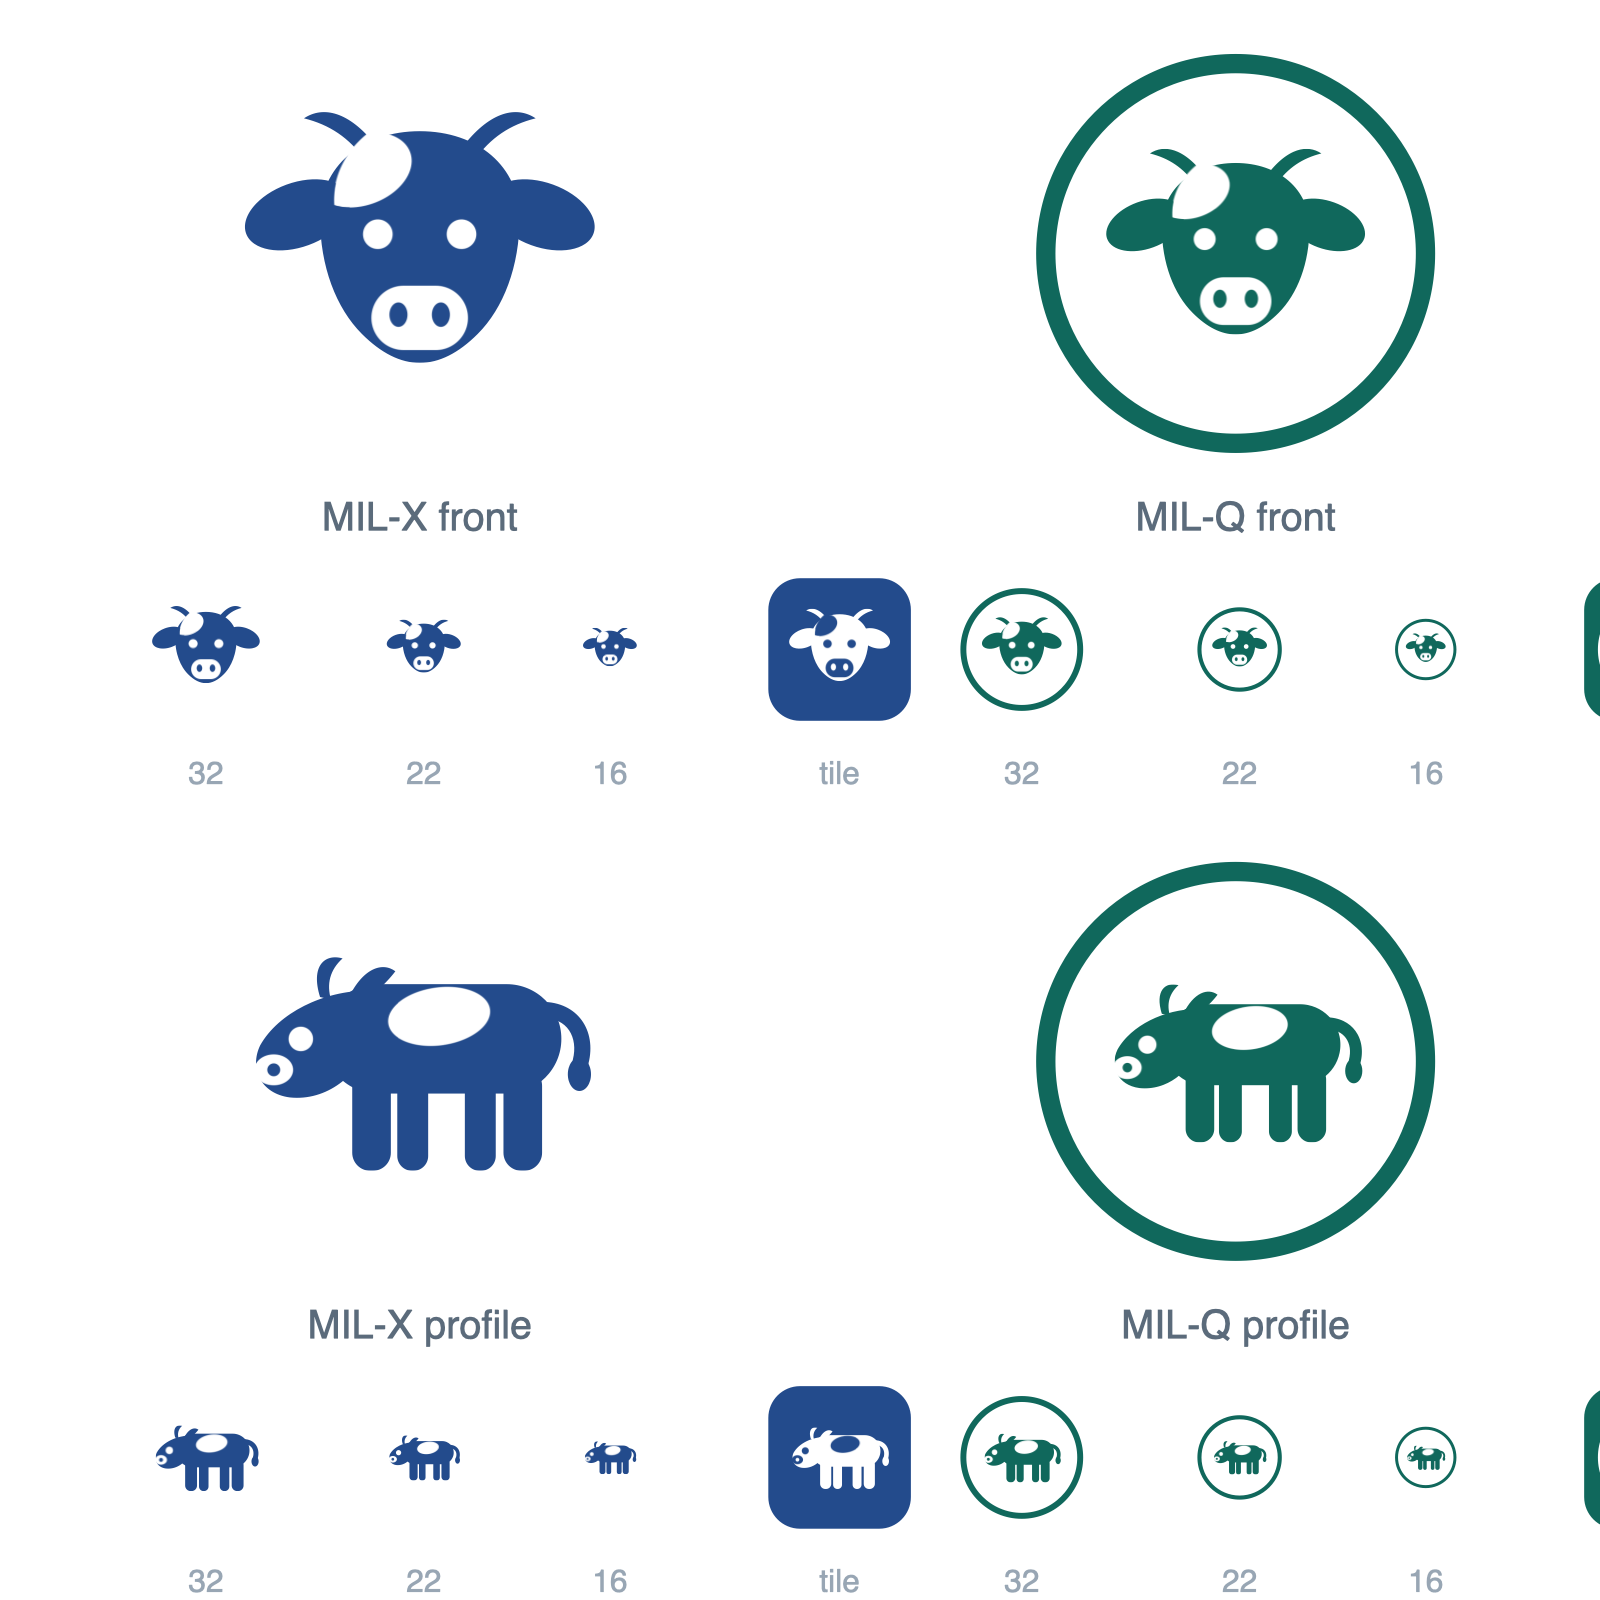
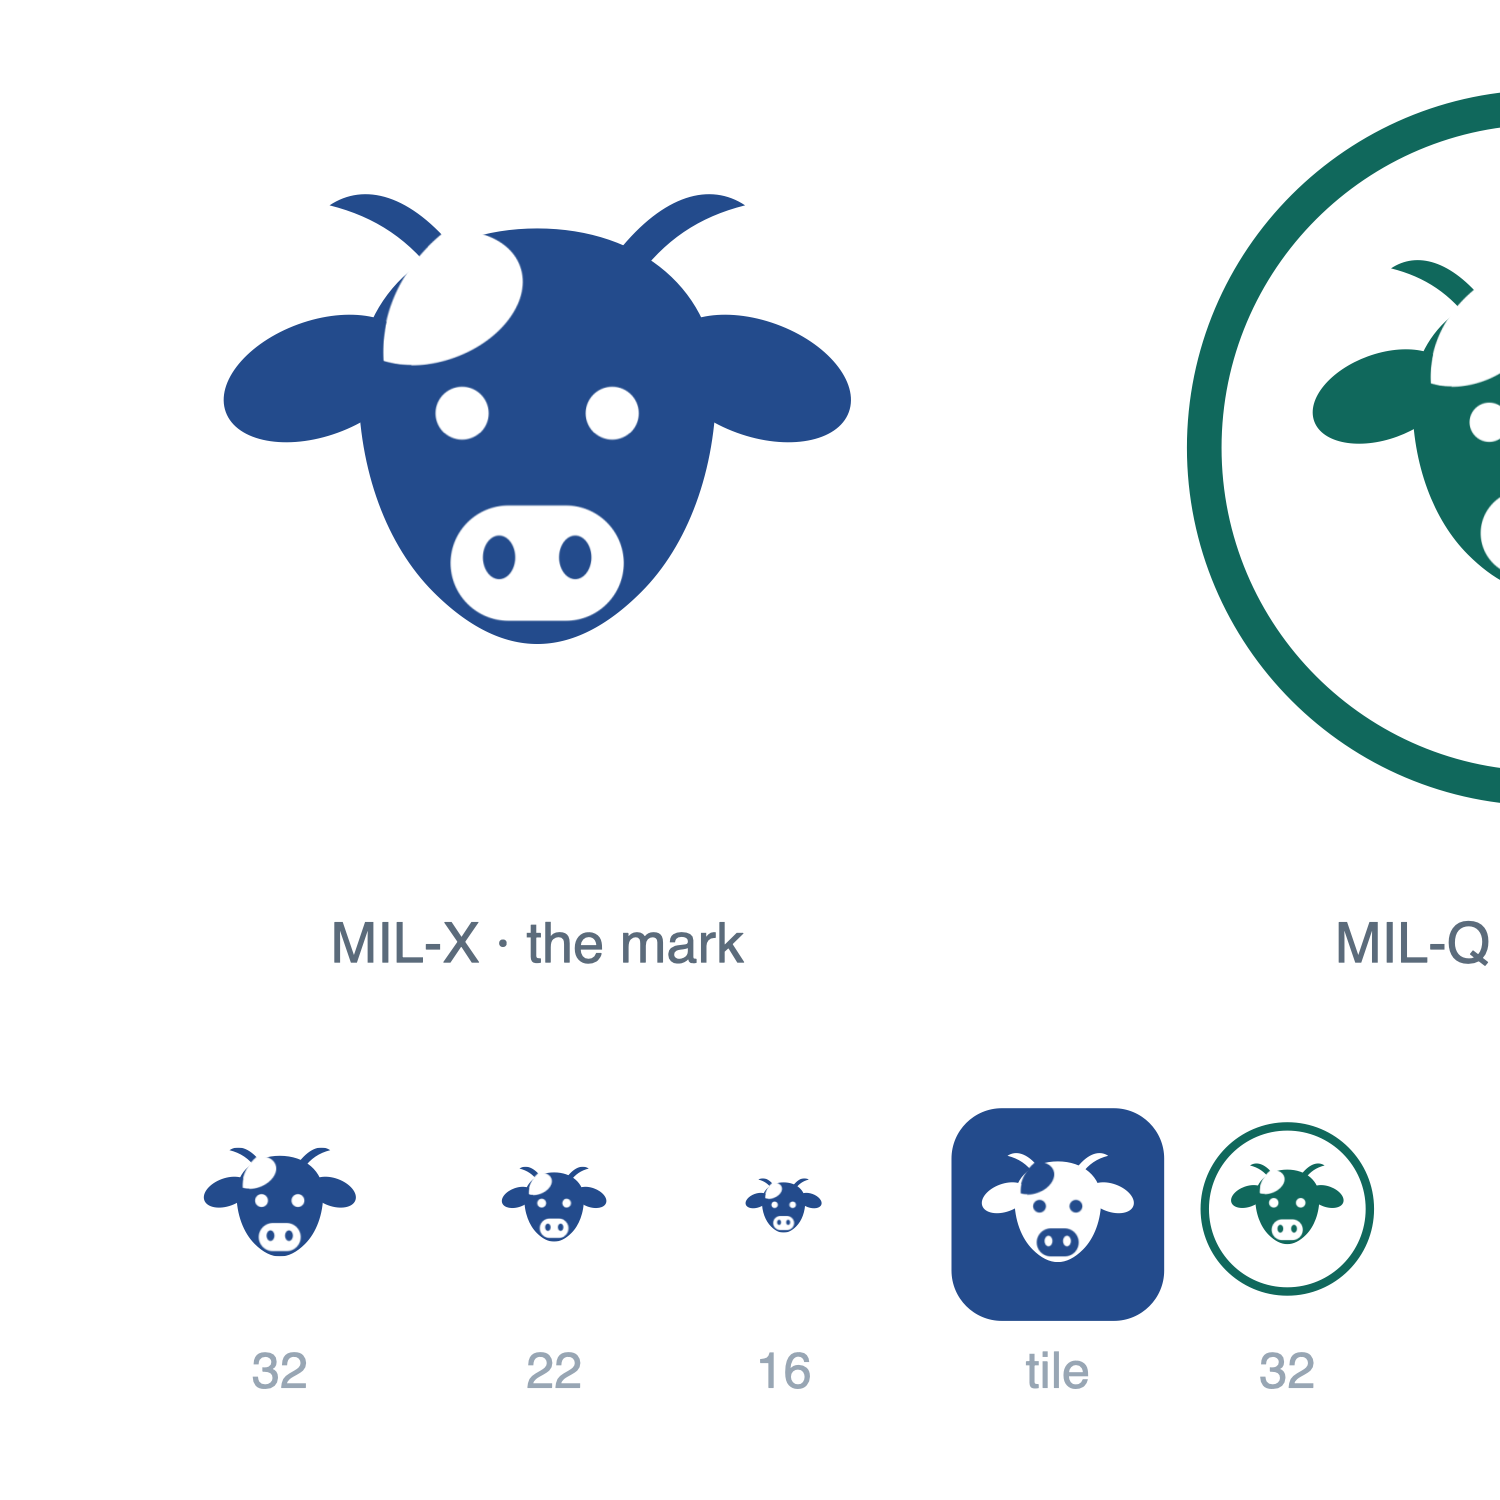
One mark: the head, and the profile set aside
The full-body profile read well large but stopped being a cow below about
32 px, and a second posture is a second thing to keep in step for no gain.
The head holds to 16 px, which is what an icon, a document icon and a favicon
all need.

diff --git a/opendial/docs/brand/README.md b/opendial/docs/brand/README.md
@@ -8,24 +8,17 @@ decided, and these are the files a decision would start from.
 | --- | --- |
 | `mil-x-front.svg` | the cow's head, face on — MIL-X |
 | `mil-q-front.svg` | the same head inside a ring — MIL-Q |
-| `mil-x-profile.svg` | the whole animal, side on — MIL-X (landscape, 96×64) |
-| `mil-q-profile.svg` | the same animal inside a ring — MIL-Q (square, 96×96) |
 
-All four are drawn on the same 64-unit grid, as one silhouette with the patch, the eyes and the
-muzzle knocked out through a mask — so they carry real transparency and sit on any background.
+Both are drawn on a 64-unit grid: the cow's head face on, as one solid silhouette with the patch,
+the eyes and the muzzle knocked out through a mask, so they carry real transparency and sit on any
+background. MIL-Q is the same head inside a ring — a targeted assay is not a different animal. The
+mark holds down to 16 px, which is what an application icon, a document icon and a favicon need.
+
 The colour is an explicit hex on each shape (`#234B8C` for X, `#10685C` for Q); replace it to
 recolour, and use `#FFFFFF` for the version that sits on a coloured tile.
 
-The profile is drawn as an animal rather than as a shape — withers, a straight back, an angular
-hindquarter, tapered legs through a joint to a hoof, the head carried level on a thick neck — after
-the Milka cow, which is structured the same way. Its patches are lobed and sit off the outline so
-the silhouette stays whole.
-
-**Which mark for which place.** The front view holds down to 16 px and is the one for the
-application icon, the document icon and the favicon. The profile holds to about 32 px and no
-further; below that the legs close up and the head goes. It belongs in landscape space: a header
-lockup beside the wordmark, a title slide, a figure in a paper. They are the same animal in two
-postures, not two identities.
+A full-body profile was drawn and set aside: it read well large but stopped being a *cow* below
+about 32 px, and a second posture is a second thing to maintain for no gain. One mark.
 
 The study that explains the naming, the palette and the type is an artifact:
 https://claude.ai/code/artifact/fb5b2be4-6a8d-4311-ab26-f71574e8f81a
